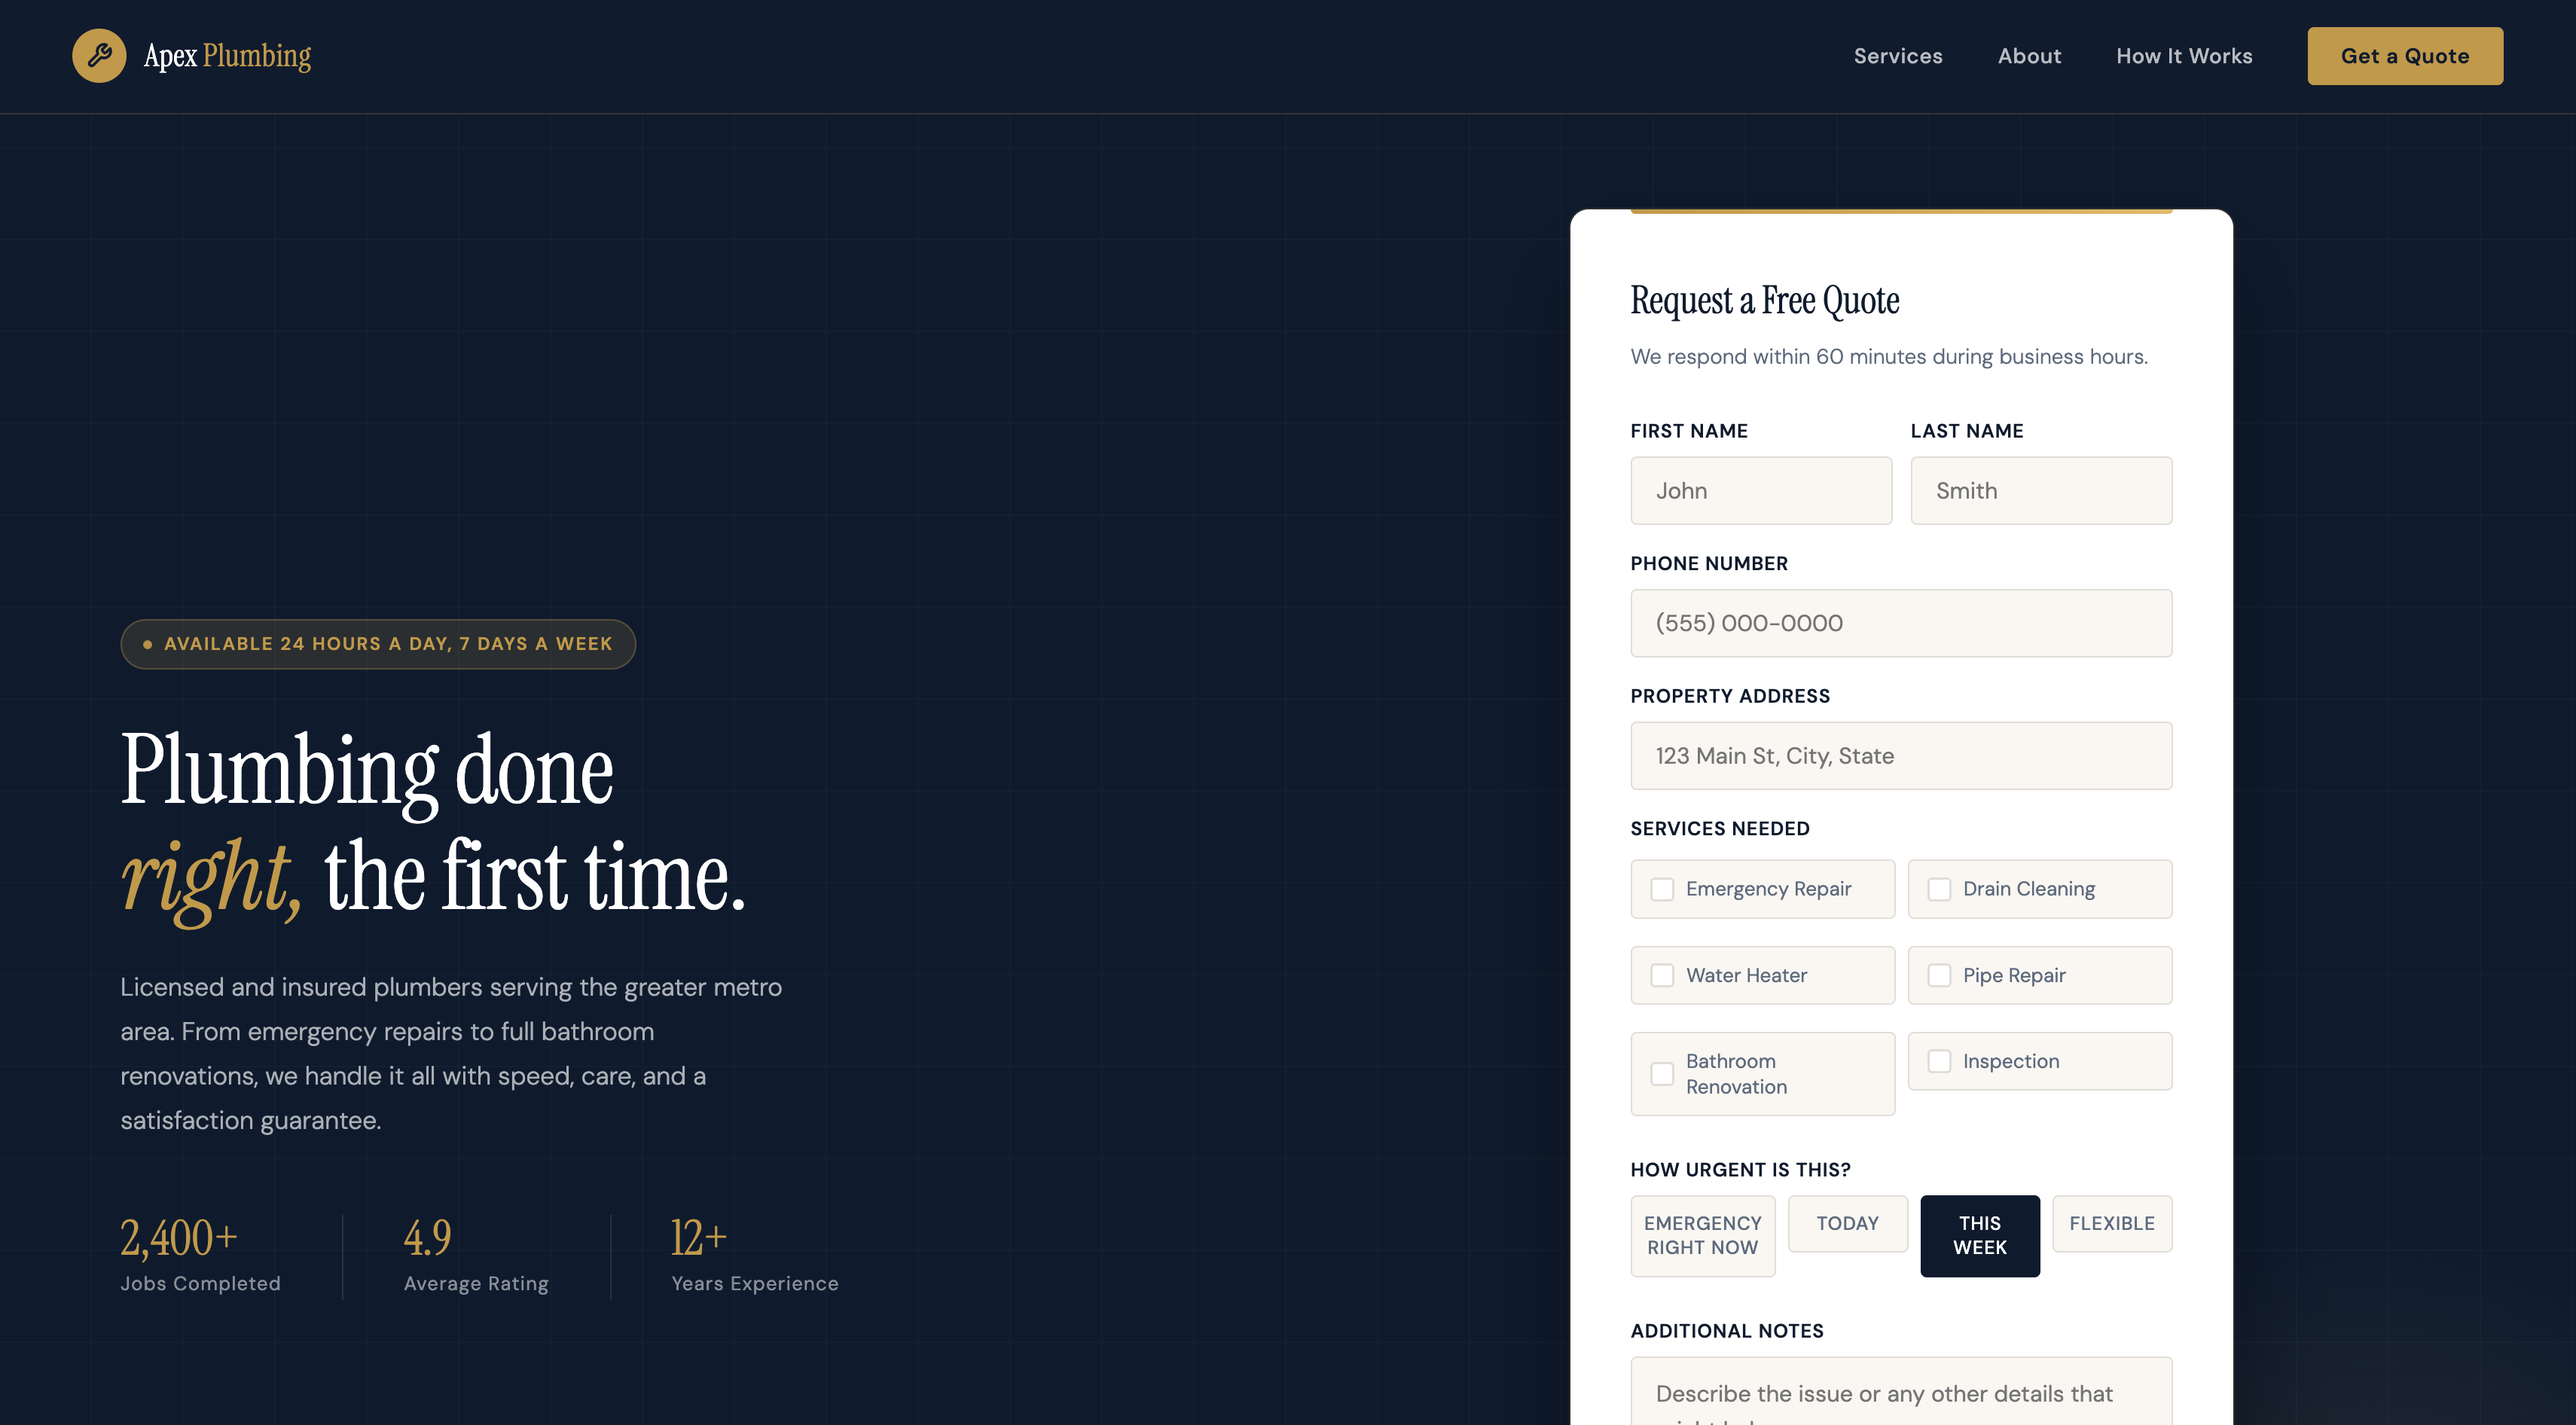
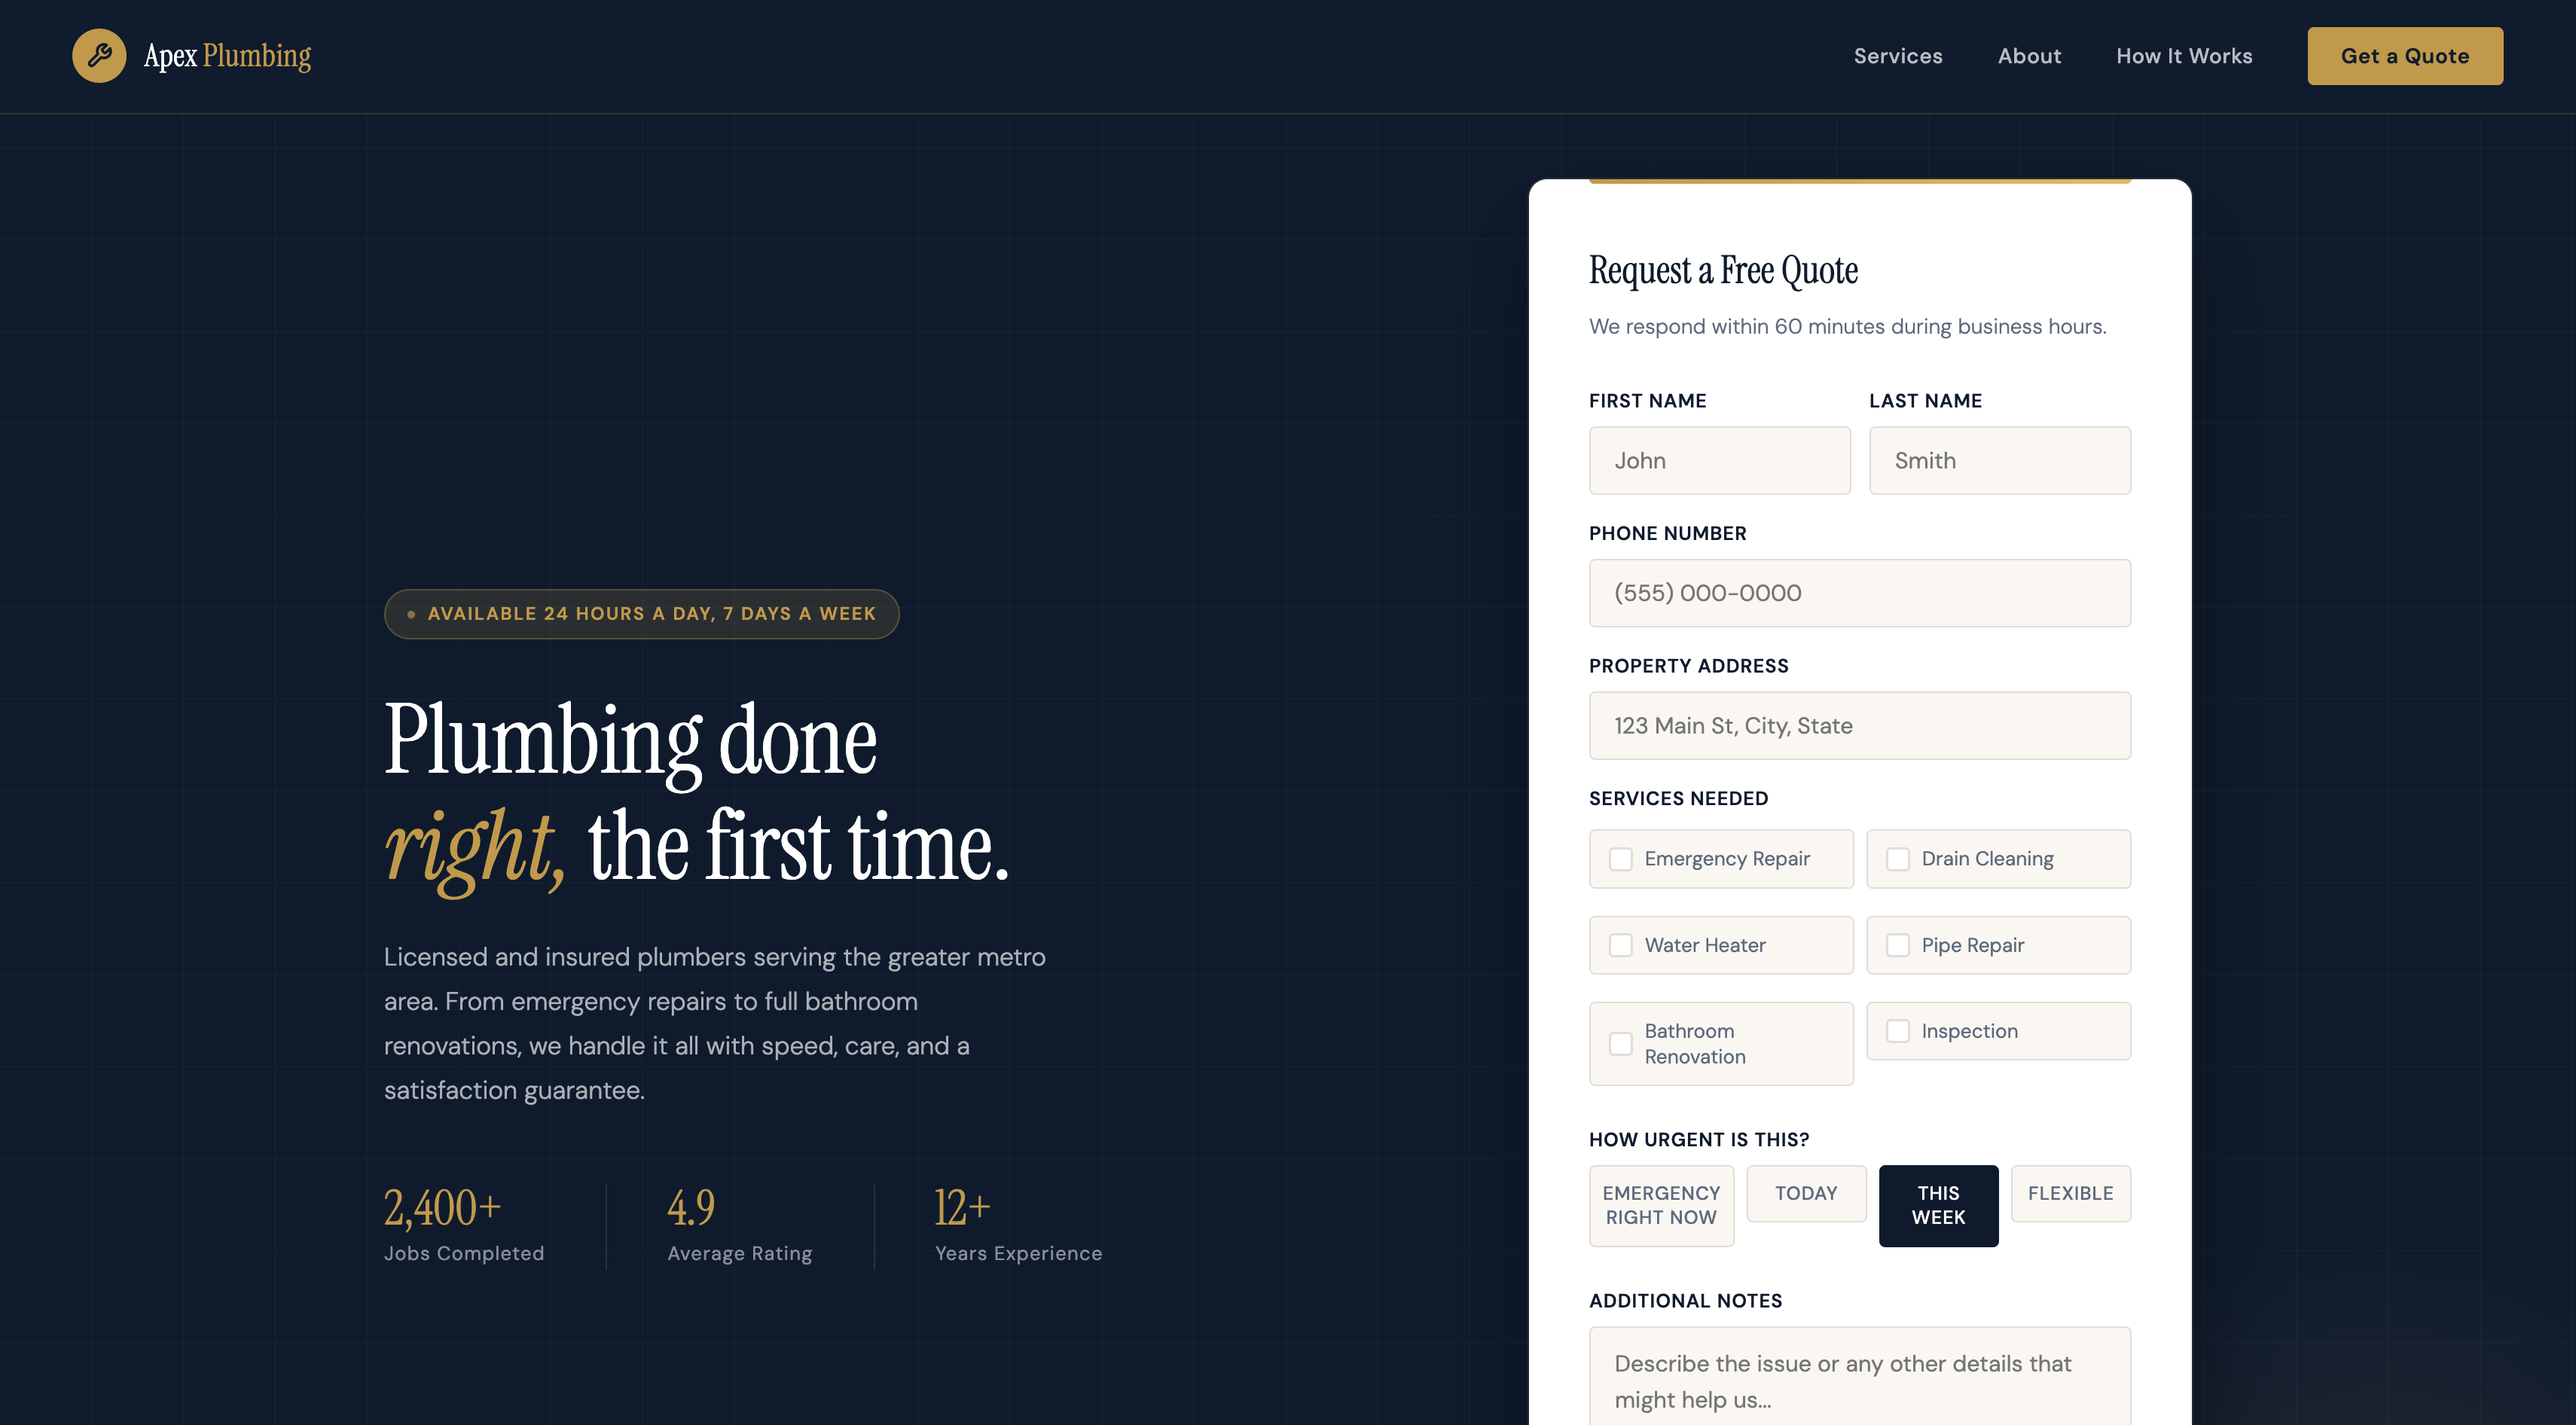
refactor(hero): replace stretched 2-column grid with centered flex layout
- Use max-width on copy and fixed-width form panel so the hero stays grouped
on wide viewports; keep 48px gap and vertical stack on small screens.

- Replace the preview image with a new one

diff --git a/industries/plumber/index.html b/industries/plumber/index.html
@@ -139,10 +139,11 @@
     .hero {
       min-height: 100vh;
       background: var(--navy);
-      display: grid;
-      grid-template-columns: 1fr 1fr;
+      display: flex;
       align-items: center;
-      padding-top: 80px;
+      justify-content: center;
+      gap: 60px;
+      padding: 120px 64px 80px;
       position: relative;
       overflow: hidden;
     }
@@ -183,7 +184,9 @@
     }
 
     .hero-content {
-      padding: 80px 64px 80px 80px;
+      flex: 1;
+      max-width: 700px;
+      padding: 0;
       position: relative;
       z-index: 2;
     }
@@ -275,7 +278,9 @@
     /* ============ HERO FORM ============ */
 
     .hero-form-panel {
-      padding: 60px 80px 60px 40px;
+      flex-shrink: 0;
+      width: 440px;
+      padding: 0;
       position: relative;
       z-index: 2;
       display: flex;
@@ -1185,11 +1190,13 @@
       }
 
       .hero {
-        grid-template-columns: 1fr;
+        flex-direction: column;
+        padding: 100px 32px 60px;
+        gap: 40px;
       }
 
       .hero-content {
-        padding: 60px 32px 40px;
+        max-width: 100%;
         text-align: center;
       }
 
@@ -1202,7 +1209,8 @@
       }
 
       .hero-form-panel {
-        padding: 0 32px 60px;
+        width: 100%;
+        max-width: 480px;
       }
 
       .services,
